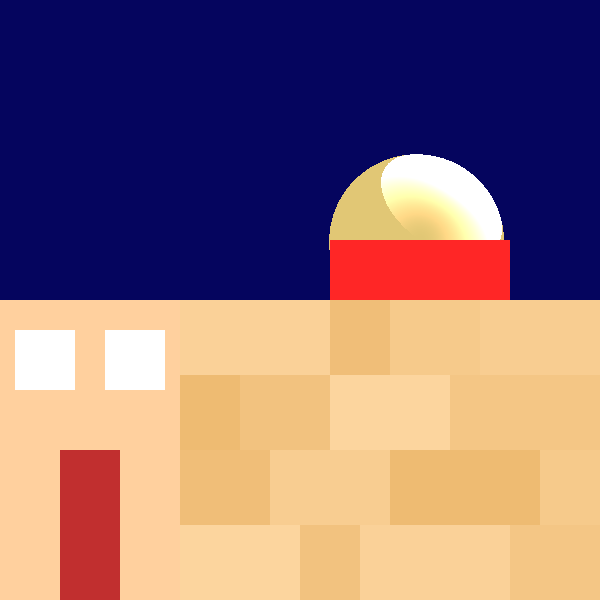
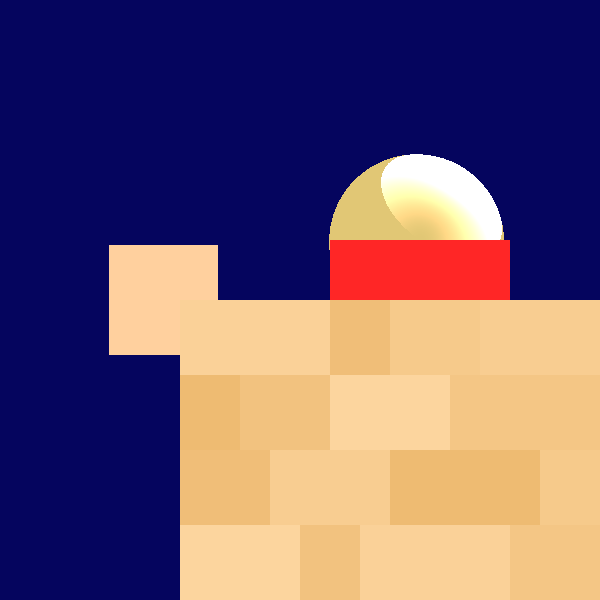
test

Changed region(s): [[0.0, 0.39, 0.39, 1.0]]

diff --git a/src/unittests/ReflectionRefractionTests.java b/src/unittests/ReflectionRefractionTests.java
@@ -129,34 +129,40 @@ public class ReflectionRefractionTests {
 	 * Produce a picture
 	 */
 	@Test
-	public void FinalPicture() {
+	public void FinalPicture1() {
 		Camera camera = new Camera(new Point3D(0, 0, 1000), new Vector(0, 0, -1), new Vector(0, 1, 0)) //
 				.setViewPlaneSize(200, 200).setDistance(1000);
 		scene.background=new Color(5,5,94);
 		scene.setAmbientLight(new AmbientLight(new Color(java.awt.Color.WHITE), 0.15));
 
 		scene.geometries.add( //
-				//door
-				new Polygon(new Point3D(-80,-50,0), new Point3D(-60,-50,0),
-						new Point3D(-60,-100,0), new Point3D(-80,-100,0))
+				/*//door
+				new Polygon(new Point3D(-80,-50,-500), new Point3D(-60,-50,-500),
+						new Point3D(-60,-100,-500), new Point3D(-80,-100,-500))
 						.setEmission(new Color(155,9,9)),
 
 				//windows 1 left
-				new Polygon(new Point3D(-95,-10,0), new Point3D(-75,-10,0),
-						new Point3D(-75,-30,0), new Point3D(-95,-30,0))
+				new Polygon(new Point3D(-95,-10,-500), new Point3D(-75,-10,-500),
+						new Point3D(-75,-30,-500), new Point3D(-95,-30,-500))
 						.setEmission(new Color(224,224,224))
 						.setMaterial(new Material().setNShininess(30).setKT(1).setKR(1)),
 
 				//windows 2 right
-				new Polygon(new Point3D(-65,-10,0), new Point3D(-45,-10,0),
-						new Point3D(-45,-30,0), new Point3D(-65,-30,0))
+				new Polygon(new Point3D(-65,-10,-500), new Point3D(-45,-10,-500),
+						new Point3D(-45,-30,-500), new Point3D(-65,-30,-500))
 						.setEmission(new Color(224,224,224))
 						.setMaterial(new Material().setNShininess(30).setKT(1).setKR(1)),
 
 				//house
-				new Polygon(new Point3D(-100,0,0), new Point3D(-40,0,0),
-						new Point3D(-40,-100,0), new Point3D(-100,-100,0))
-				.setEmission(new Color(219,170,120)),
+				new Polygon(new Point3D(-100,0,-500), new Point3D(-40,0,-500),
+						new Point3D(-40,-100,-500), new Point3D(-100,-100,-500))
+				.setEmission(new Color(219,170,120)),*/
+
+				//house
+				new Polygon(new Point3D(-70,20,-100), new Point3D(-30,20,-100),
+						new Point3D(-30,-20,-100), new Point3D(-70,-20,-100))
+						.setEmission(new Color(219,170,120)),
+
 
 				//dome
 				new Sphere(new Point3D(40,20,-30),30.0)
@@ -254,6 +260,186 @@ public class ReflectionRefractionTests {
 				.setKL(4E-5).setKQ(2E-7));
 
 		ImageWriter imageWriter = new ImageWriter("producingPicture", 600, 600);
+		Render render = new Render() //
+				.setImageWriter(imageWriter) //
+				.setCamera(camera) //
+				.setRayTracerBase(new RayTracerBasic(scene));
+
+		render.renderImage();
+		render.writeToImage();
+	}
+
+	/**
+	 * Produce a picture
+	 */
+	@Test
+	public void FinalPicture() {
+		Camera camera = new Camera(new Point3D(0, 0, 1000), new Vector(0, 0, -1), new Vector(0, 1, 0)) //
+				.setViewPlaneSize(200, 200).setDistance(1000);
+		scene.background=new Color(25,25,112);
+		//scene.setAmbientLight(new AmbientLight(new Color(java.awt.Color.WHITE), 0.15));
+		new SpotLight(new Color(400, 240, 0), new Point3D(-100, -100, 200), new Vector(1, 1, -3)) //
+				.setKL(1E-5).setKQ(1.5E-7);
+		scene.geometries.add( //
+				//lune
+				new Sphere(new Point3D(0,-110,0),100.0)
+						.setEmission(new Color(255,213,94))
+						.setMaterial(new Material().setKD(0.8).setKS(0.8).setNShininess(200).setKT(0).setKR(0.7)),
+				//tete
+				new Sphere(new Point3D(-16.5, 28.5,0), 8.5)
+						.setEmission(new Color(20, 20, 20)) //
+						.setMaterial(new Material().setKR(0.5)),
+				//pied droit
+				new Polygon(new Point3D(-13,0,0), new Point3D(-10,0,0),
+						new Point3D(-10,-15,0), new Point3D(-13,-15,0))
+						.setEmission(new Color(255,255,255)),
+				//pied gauche
+				new Polygon(new Point3D(-23,0,0), new Point3D(-20,0,0),
+						new Point3D(-20,-15,0), new Point3D(-23,-15,0))
+						.setEmission(new Color(255,255,255)),
+				//corp
+				new Polygon(new Point3D(-25,0,0), new Point3D(-8,0,0),
+						new Point3D(-8,20,0), new Point3D(-25,20,0))
+						.setEmission(new Color(255,255,255)),
+				//bras droit
+				new Triangle(new Point3D(-8,20,0), new Point3D(-5,4,0),
+						new Point3D(-8,4,0))
+						.setEmission(new Color(255,255,255)),
+				//bras gauche
+				new Triangle(new Point3D(-25,20,0), new Point3D(-25,4,0),
+						new Point3D(-28,4,0))
+						.setEmission(new Color(255,255,255)),
+				//mars
+				new Sphere(new Point3D(-50,50,200), 10d)
+							.setEmission(new Color(188,39,50)),
+				//etoile jaune
+				new Sphere(new Point3D(75,75,0), 0.7d)
+							.setEmission(new Color(255,255,0)),
+				//etoile jaune
+				new Sphere(new Point3D(48,70,0), 0.7d)
+						.setEmission(new Color(255,255,0)),
+				//etoile jaune
+				new Sphere(new Point3D(-75,50,0), 0.7d)
+						.setEmission(new Color(255,255,0)),
+				//etoile jaune
+				new Sphere(new Point3D(35,47,0), 0.7d)
+						.setEmission(new Color(255,255,0)),
+				//etoile jaune
+				new Sphere(new Point3D(89,95,0), 0.7d)
+						.setEmission(new Color(255,255,0)),
+				//etoile jaune
+				new Sphere(new Point3D(-89,-43,0), 0.7d)
+						.setEmission(new Color(255,255,0)),
+				//etoile jaune
+				new Sphere(new Point3D(10,-24,0), 0.7d)
+						.setEmission(new Color(255,255,0)),
+				//etoile jaune
+				new Sphere(new Point3D(-50,-39,0), 0.7d)
+						.setEmission(new Color(255,255,0)),
+				//etoile jaune
+				new Sphere(new Point3D(10,-75,0), 0.7d)
+						.setEmission(new Color(255,255,0)),
+				//etoile jaune
+				new Sphere(new Point3D(-75,10,0), 0.7d)
+						.setEmission(new Color(255,255,0)),
+				//etoile jaune
+				new Sphere(new Point3D(-50,40,0), 0.7d)
+						.setEmission(new Color(255,255,0)),
+				//etoile jaune
+				new Sphere(new Point3D(-10,85,0), 0.7d)
+						.setEmission(new Color(255,255,0)),
+				//etoile jaune
+				new Sphere(new Point3D(90,-10,0), 0.7d)
+						.setEmission(new Color(255,255,0)),
+				//etoile jaune
+				new Sphere(new Point3D(85,20,0), 0.7d)
+						.setEmission(new Color(255,255,0)),
+				//etoile jaune
+				new Sphere(new Point3D(20,10,0), 0.7d)
+						.setEmission(new Color(255,255,0)),
+				//etoile jaune
+				new Sphere(new Point3D(50,50,0), 0.7d)
+						.setEmission(new Color(255,255,0)),
+				//etoile jaune
+				new Sphere(new Point3D(65,75,0), 0.7d)
+						.setEmission(new Color(255,255,0)),
+				//etoile jaune
+				new Sphere(new Point3D(35,66,0), 0.7d)
+						.setEmission(new Color(255,255,0)),
+				//etoile jaune
+				new Sphere(new Point3D(40,-25,0), 0.7d)
+						.setEmission(new Color(255,255,0)),
+				//etoile jaune
+				new Sphere(new Point3D(78,10,0), 0.7d)
+						.setEmission(new Color(255,255,0)),
+				//etoile jaune
+				new Sphere(new Point3D(-34,78,0), 0.7d)
+						.setEmission(new Color(255,255,0)),
+				//etoile jaune
+				new Sphere(new Point3D(50,0,0), 0.7d)
+						.setEmission(new Color(255,255,0)),
+				//etoile jaune
+				new Sphere(new Point3D(-80,80,0), 0.7d)
+						.setEmission(new Color(255,255,0)),
+				//etoile jaune
+				new Sphere(new Point3D(-15,50,0), 0.7d)
+						.setEmission(new Color(255,255,0))
+		);
+
+		//etoile
+		for(double i=42; i>31;i-=1.5)
+			for(double j=8.5;j<25;j+=2)
+				scene.geometries.add(new Sphere(new Point3D(j, i, 0.5),0.5 )
+						.setEmission(new Color(255,255,255)));
+		scene.geometries.add( //
+				//barre noir drapeau
+				new Polygon(new Point3D(7,43,0), new Point3D(6,43,0),
+						new Point3D(6,-15,0),new Point3D(7,-15,0))
+							.setEmission(Color.BLACK),
+				//carre bleu du drapeau
+				new Polygon(new Point3D(7,43,0), new Point3D(25, 43, 0),
+						new Point3D(25, 31, 0), new Point3D(7, 31, 0))
+						.setEmission(new Color(0,0,255)),
+				//bandes rouge 1
+				new Polygon(new Point3D(25, 43, 0), new Point3D(43, 43, 0),
+						new Point3D(43, 41, 0), new Point3D(25, 41, 0))
+						.setEmission(new Color(255,0,0)),
+				//bandes rouge 2
+				new Polygon(new Point3D(25, 39, 0), new Point3D(43, 39, 0),
+						new Point3D(43, 37, 0), new Point3D(25, 37, 0))
+						.setEmission(new Color(255,0,0)),
+				//bandes rouge 3
+				new Polygon(new Point3D(25, 35, 0), new Point3D(43, 35, 0),
+						new Point3D(43, 33, 0), new Point3D(25, 33, 0))
+						.setEmission(new Color(255,0,0)),
+				//bandes rouge 4
+				new Polygon(new Point3D(7, 31, 0), new Point3D(43, 31, 0),
+						new Point3D(43, 29, 0), new Point3D(7, 29, 0))
+						.setEmission(new Color(255,0,0)),
+				//bandes rouge 5
+				new Polygon(new Point3D(7, 27, 0), new Point3D(43, 27, 0),
+						new Point3D(43, 25, 0), new Point3D(7, 25, 0))
+						.setEmission(new Color(255,0,0)),
+				//bandes rouge 6
+				new Polygon(new Point3D(7, 23, 0), new Point3D(43, 23, 0),
+						new Point3D(43, 21, 0), new Point3D(7, 21, 0))
+						.setEmission(new Color(255,0,0)),
+				//bandes rouge 7
+				new Polygon(new Point3D(7, 19, 0), new Point3D(43, 19, 0),
+						new Point3D(43, 17, 0), new Point3D(7, 17, 0))
+						.setEmission(new Color(255,0,0)),
+				//drapeau
+				new Polygon(new Point3D(7, 17, 0), new Point3D(7, 43, 0),
+						new Point3D(43, 43, 0), new Point3D(43, 17, 0))
+						.setEmission(new Color(255,255,255))
+
+		);
+
+
+		scene.lights.add(new SpotLight(new Color(700, 400, 400), new Point3D(60, 50, 0), new Vector(0, 0, -1)) //
+				.setKL(4E-5).setKQ(2E-7));
+
+		ImageWriter imageWriter = new ImageWriter("moon", 600, 600);
 		Render render = new Render() //
 				.setImageWriter(imageWriter) //
 				.setCamera(camera) //
